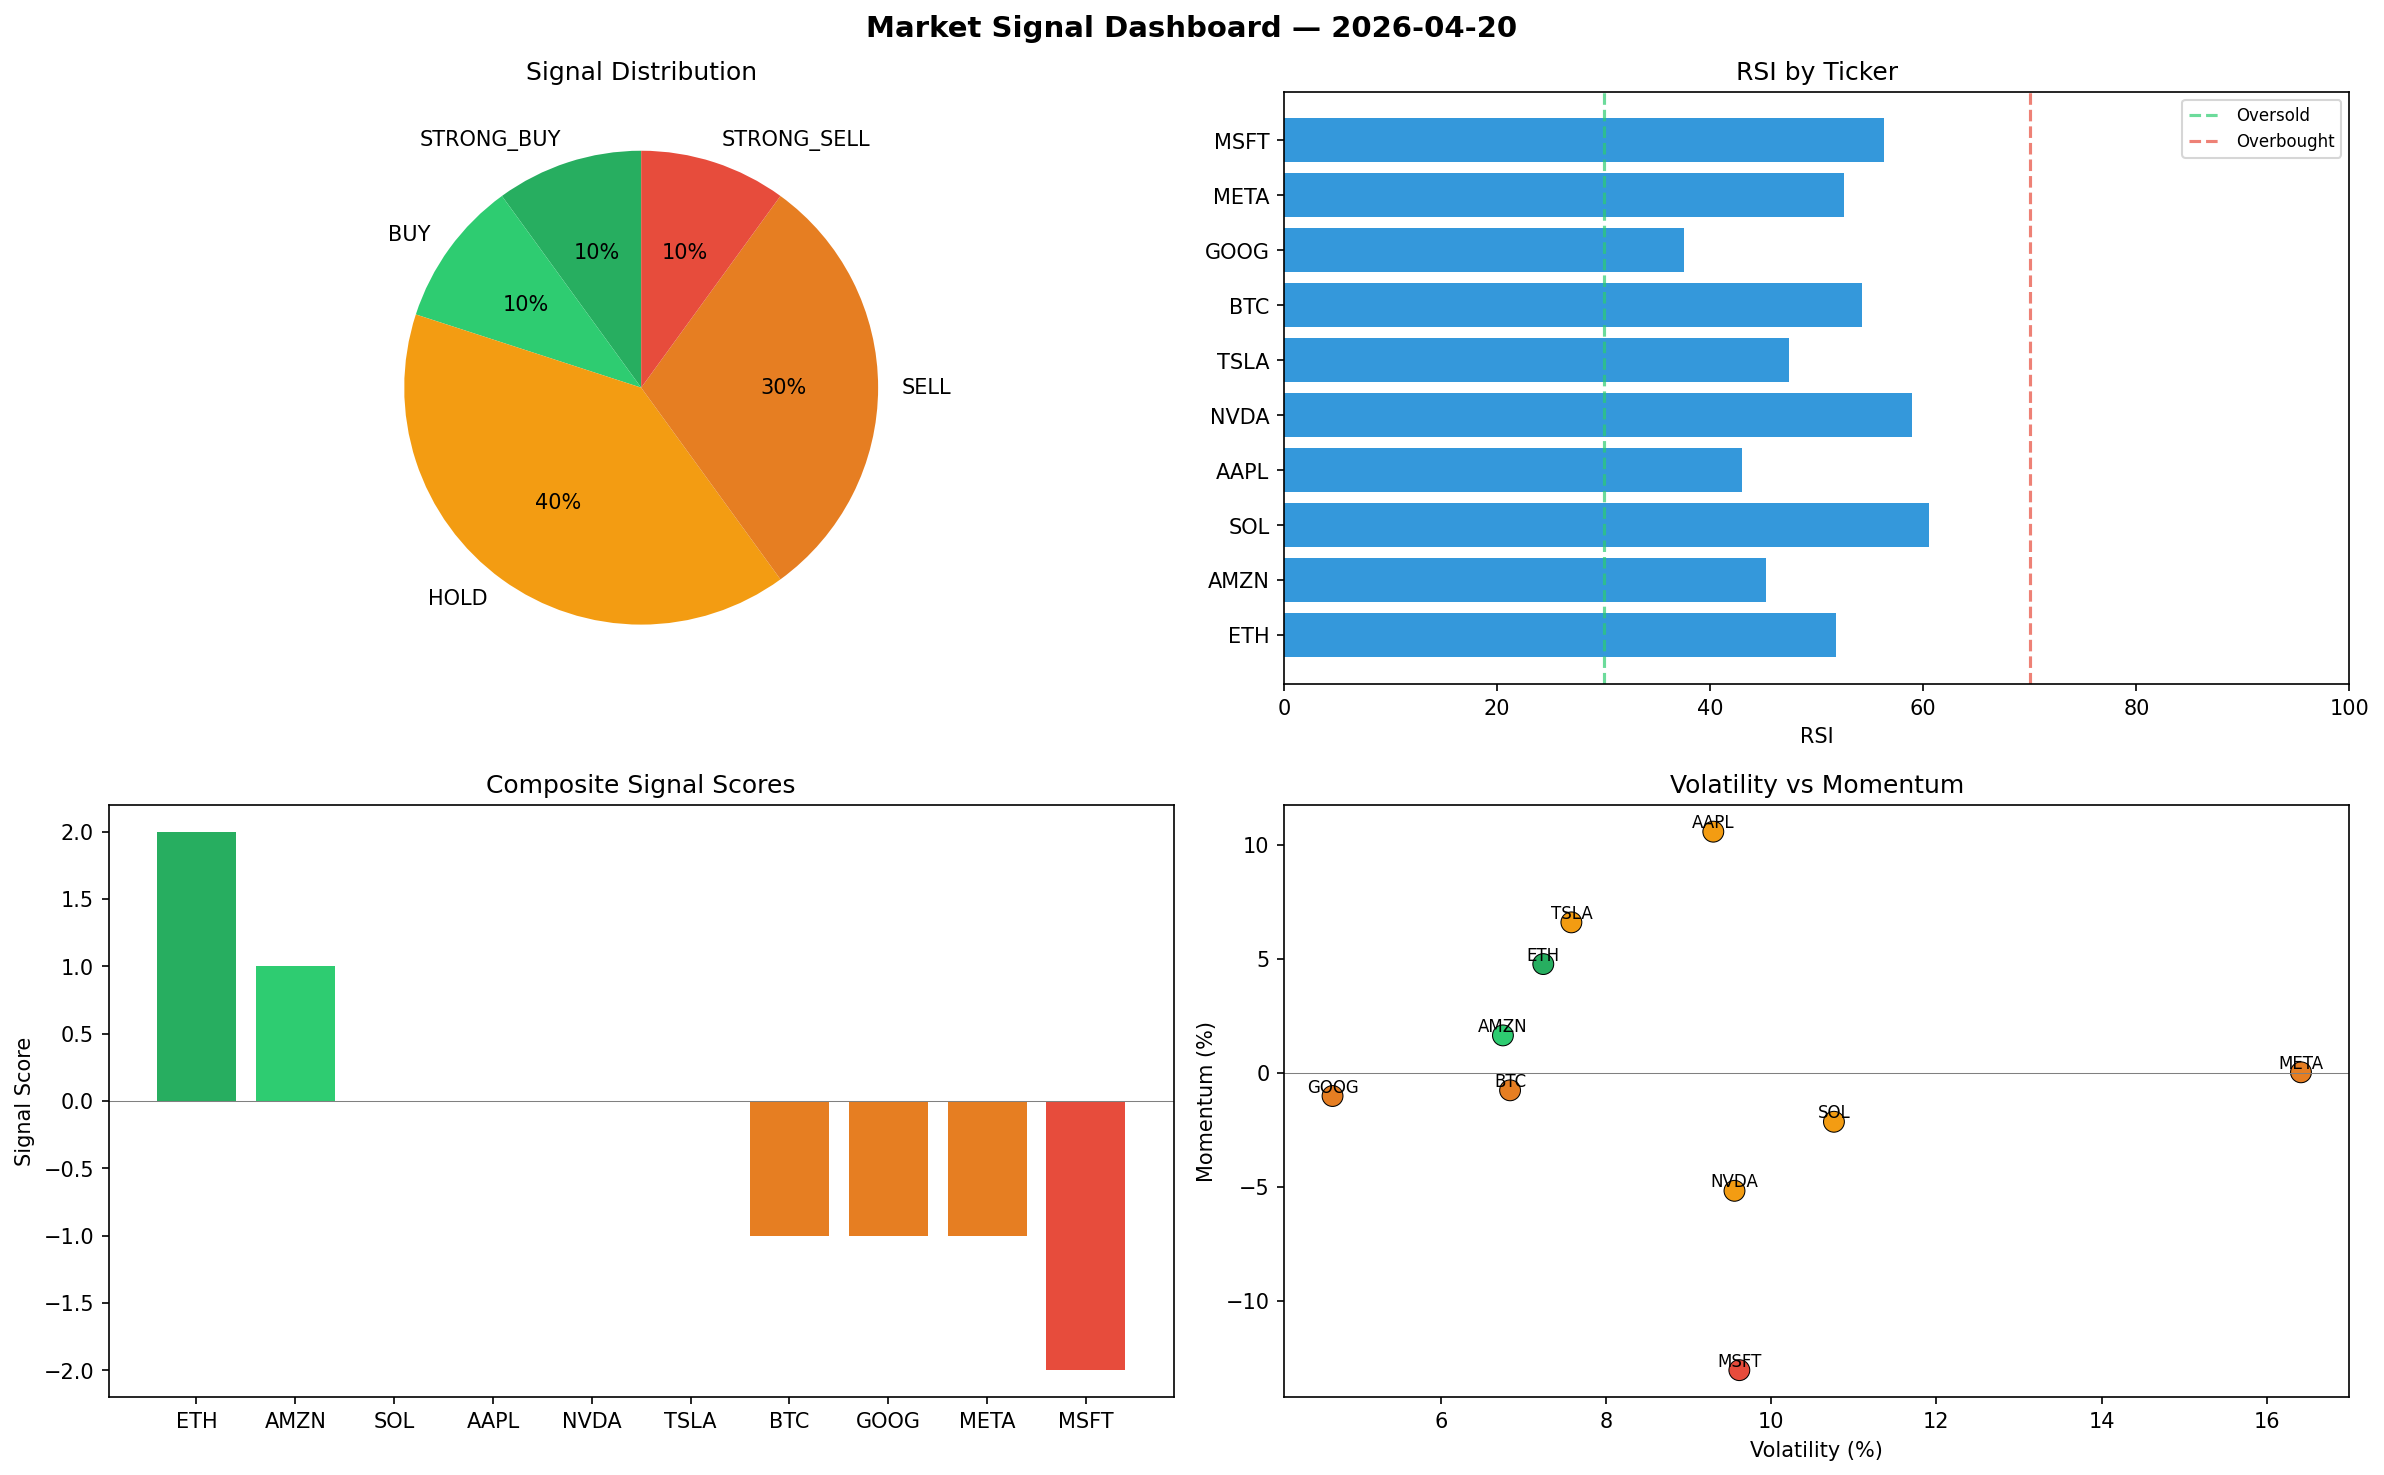
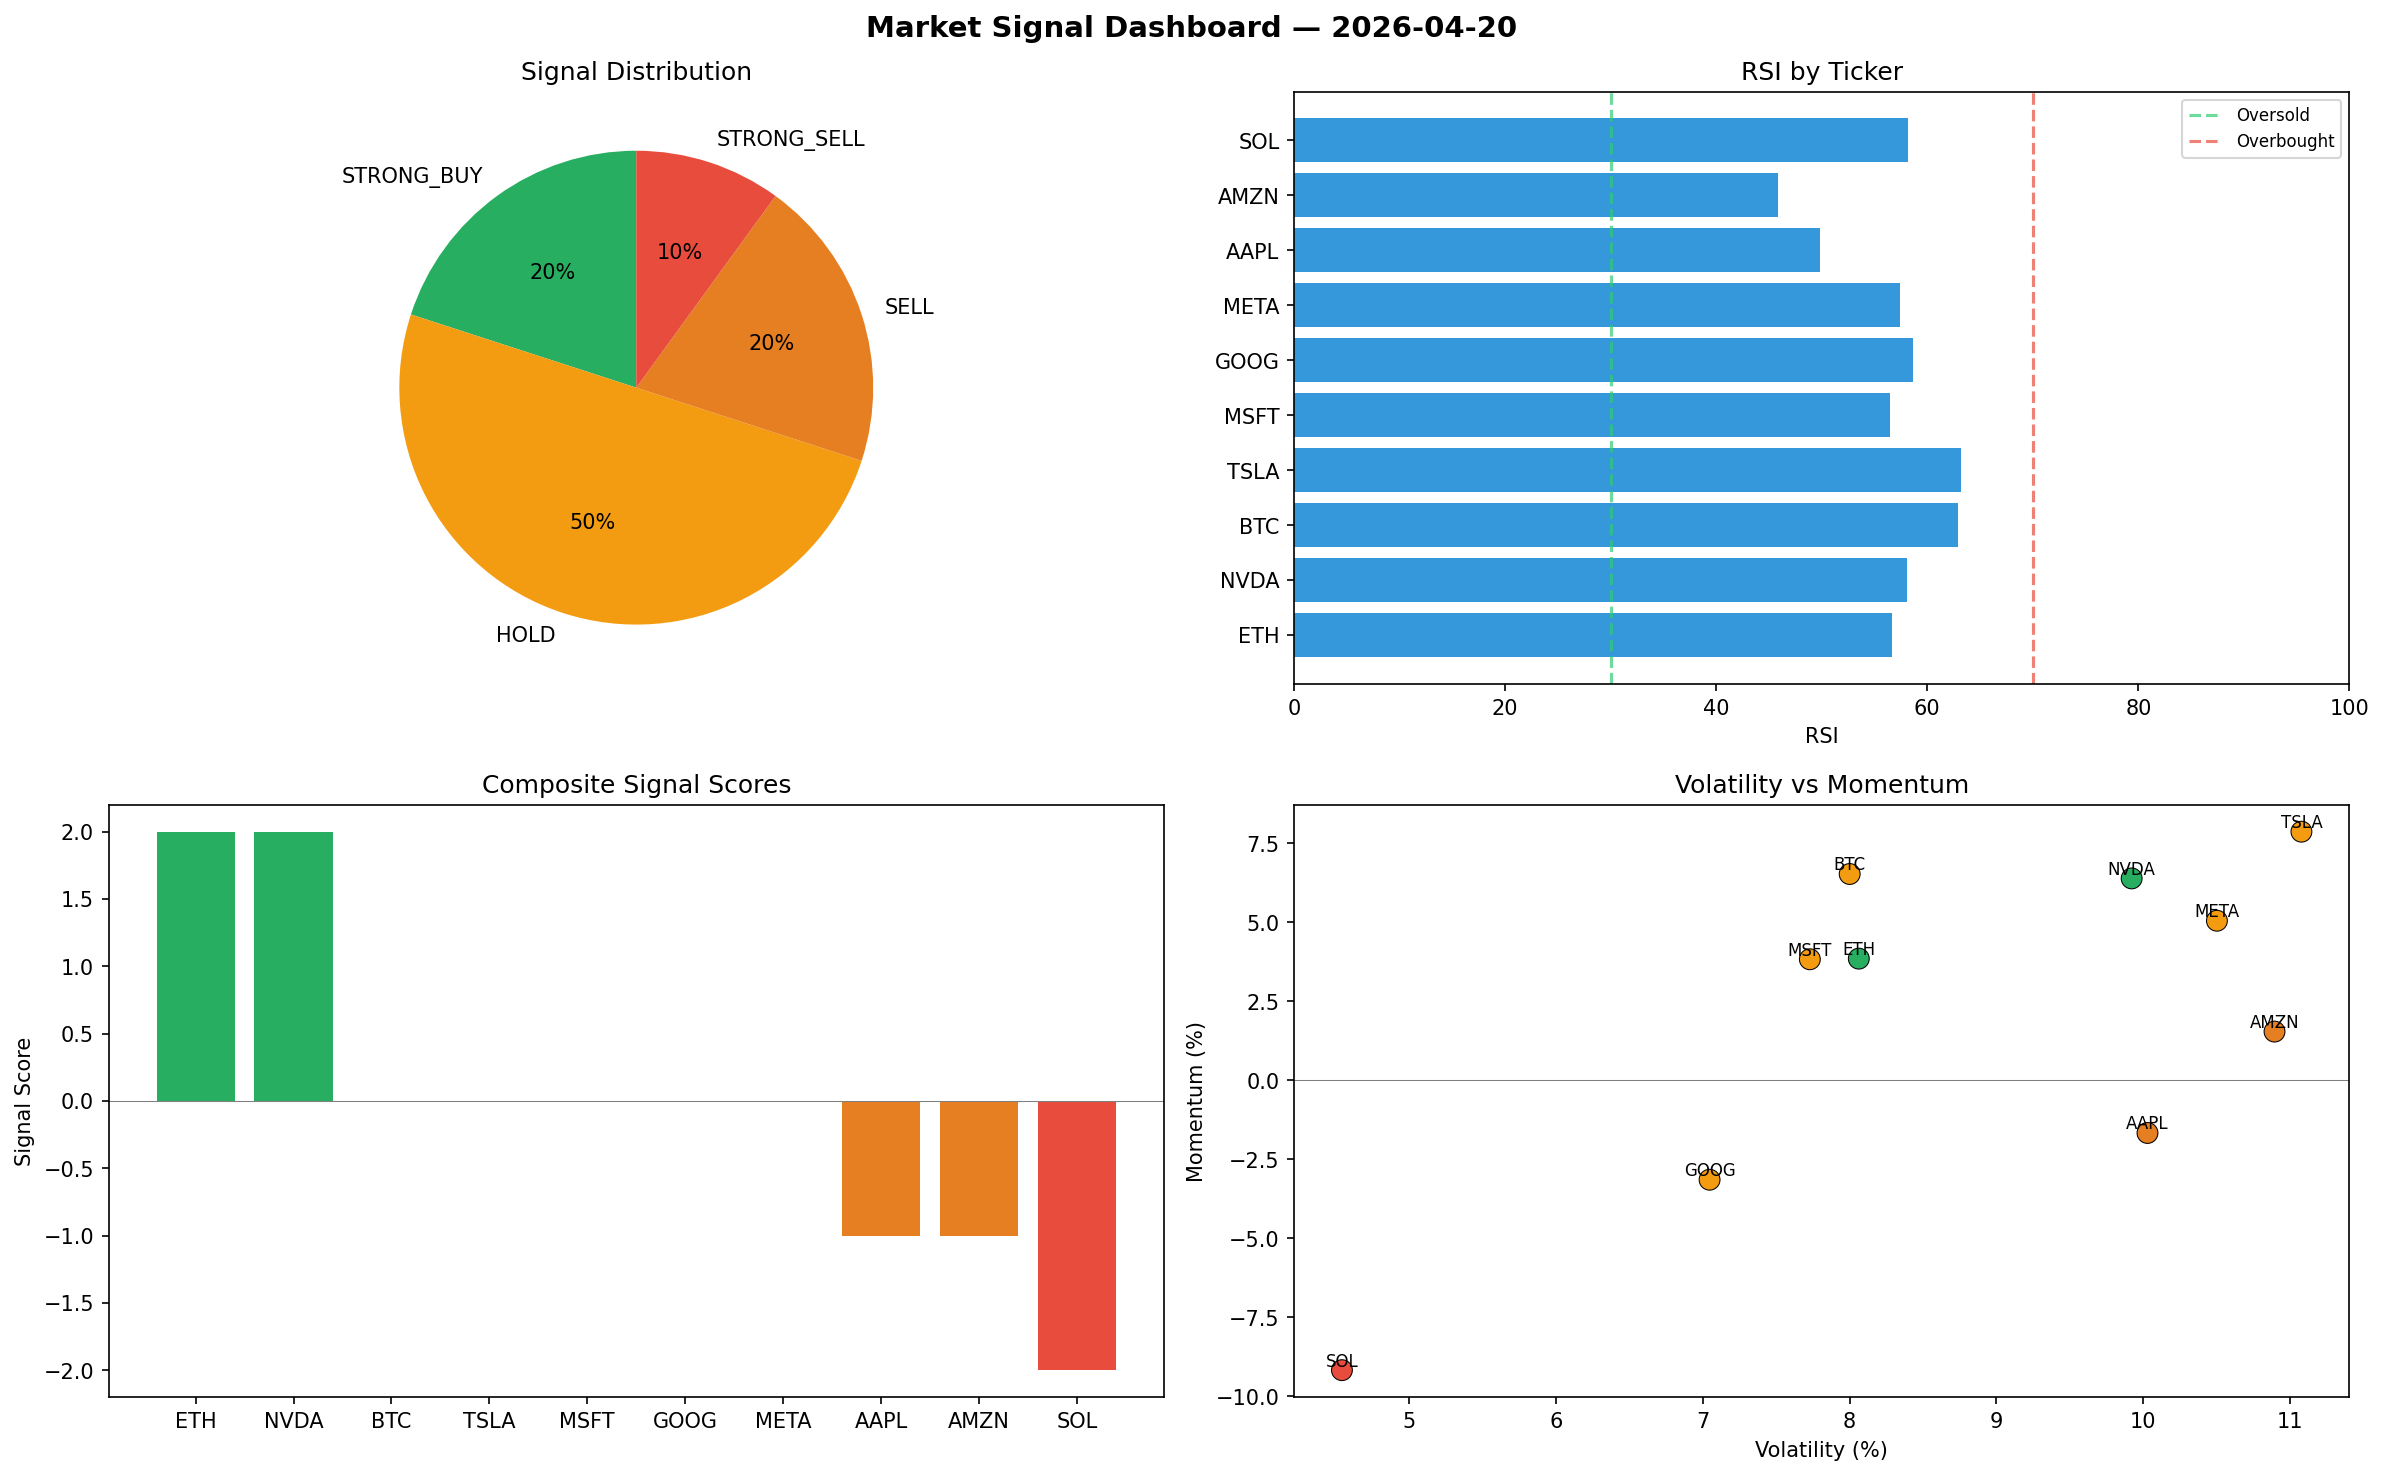
automated-bots: market signals 2026-04-20T15:52

diff --git a/logs/2026-04-20.md b/logs/2026-04-20.md
@@ -1,6 +1,6 @@
 # Market Signal Report — 2026-04-20
 
-**Run ID:** `c7ac027ef1` | **Buy:** 2 | **Sell:** 4 | **Hold:** 4
+**Run ID:** `779beec802` | **Buy:** 2 | **Sell:** 3 | **Hold:** 5
 
 ![Dashboard](2026-04-20_dashboard.png)
 
@@ -8,28 +8,28 @@
 
 | Ticker | Price | Signal | Score | RSI | Momentum | Confidence |
 |--------|-------|--------|-------|-----|----------|------------|
-| ETH | $2132.56 | **STRONG_BUY** | 2 | 51.76 | 0.0477 | 0.5 |
-| AMZN | $4481.18 | **BUY** | 1 | 45.25 | 0.0164 | 0.25 |
-| SOL | $3905.73 | **HOLD** | 0 | 60.49 | -0.0215 | 0.0 |
-| AAPL | $3100.68 | **HOLD** | 0 | 42.98 | 0.1058 | 0.0 |
-| NVDA | $2725.36 | **HOLD** | 0 | 58.98 | -0.0518 | 0.0 |
-| TSLA | $4097.94 | **HOLD** | 0 | 47.4 | 0.066 | 0.0 |
-| BTC | $4781.52 | **SELL** | -1 | 54.28 | -0.0077 | 0.25 |
-| GOOG | $1405.79 | **SELL** | -1 | 37.56 | -0.0102 | 0.25 |
-| META | $4133.88 | **SELL** | -1 | 52.59 | 0.0002 | 0.25 |
-| MSFT | $2444.64 | **STRONG_SELL** | -2 | 56.3 | -0.1305 | 0.5 |
+| ETH | $390.51 | **STRONG_BUY** | 2 | 56.67 | 0.0385 | 0.5 |
+| NVDA | $2237.52 | **STRONG_BUY** | 2 | 58.05 | 0.0639 | 0.5 |
+| BTC | $4875.85 | **HOLD** | 0 | 62.89 | 0.0653 | 0.0 |
+| TSLA | $1974.37 | **HOLD** | 0 | 63.24 | 0.0787 | 0.0 |
+| MSFT | $2842.11 | **HOLD** | 0 | 56.51 | 0.0383 | 0.0 |
+| GOOG | $2103.28 | **HOLD** | 0 | 58.62 | -0.0315 | 0.0 |
+| META | $3811.39 | **HOLD** | 0 | 57.41 | 0.0505 | 0.0 |
+| AAPL | $2638.34 | **SELL** | -1 | 49.85 | -0.0167 | 0.25 |
+| AMZN | $4059.58 | **SELL** | -1 | 45.89 | 0.0154 | 0.25 |
+| SOL | $3302.66 | **STRONG_SELL** | -2 | 58.15 | -0.0918 | 0.5 |
 
 ## Delta vs Yesterday
 
 | Ticker | Today | Yesterday | Price Change | Signal Changed |
 |--------|-------|-----------|-------------|----------------|
-| ETH | STRONG_BUY | STRONG_SELL | 📈 207.02% | ⚠ YES |
-| AMZN | BUY | HOLD | 📉 -8.99% | ⚠ YES |
-| SOL | HOLD | STRONG_BUY | 📉 -11.56% | ⚠ YES |
-| AAPL | HOLD | STRONG_SELL | 📈 219.01% | ⚠ YES |
-| NVDA | HOLD | HOLD | 📈 16.0% | — |
-| TSLA | HOLD | HOLD | 📈 25.94% | — |
-| BTC | SELL | BUY | 📈 55.2% | ⚠ YES |
-| GOOG | SELL | BUY | 📉 -37.52% | ⚠ YES |
-| META | SELL | STRONG_SELL | 📈 64.96% | ⚠ YES |
-| MSFT | STRONG_SELL | HOLD | 📉 -39.49% | ⚠ YES |
+| ETH | STRONG_BUY | STRONG_SELL | 📉 -43.78% | ⚠ YES |
+| NVDA | STRONG_BUY | HOLD | 📉 -4.77% | ⚠ YES |
+| BTC | HOLD | BUY | 📈 58.26% | ⚠ YES |
+| TSLA | HOLD | HOLD | 📉 -39.32% | — |
+| MSFT | HOLD | HOLD | 📉 -29.65% | — |
+| GOOG | HOLD | BUY | 📉 -6.52% | ⚠ YES |
+| META | HOLD | STRONG_SELL | 📈 52.1% | ⚠ YES |
+| AAPL | SELL | STRONG_SELL | 📈 171.44% | ⚠ YES |
+| AMZN | SELL | HOLD | 📉 -17.55% | ⚠ YES |
+| SOL | STRONG_SELL | STRONG_BUY | 📉 -25.22% | ⚠ YES |
